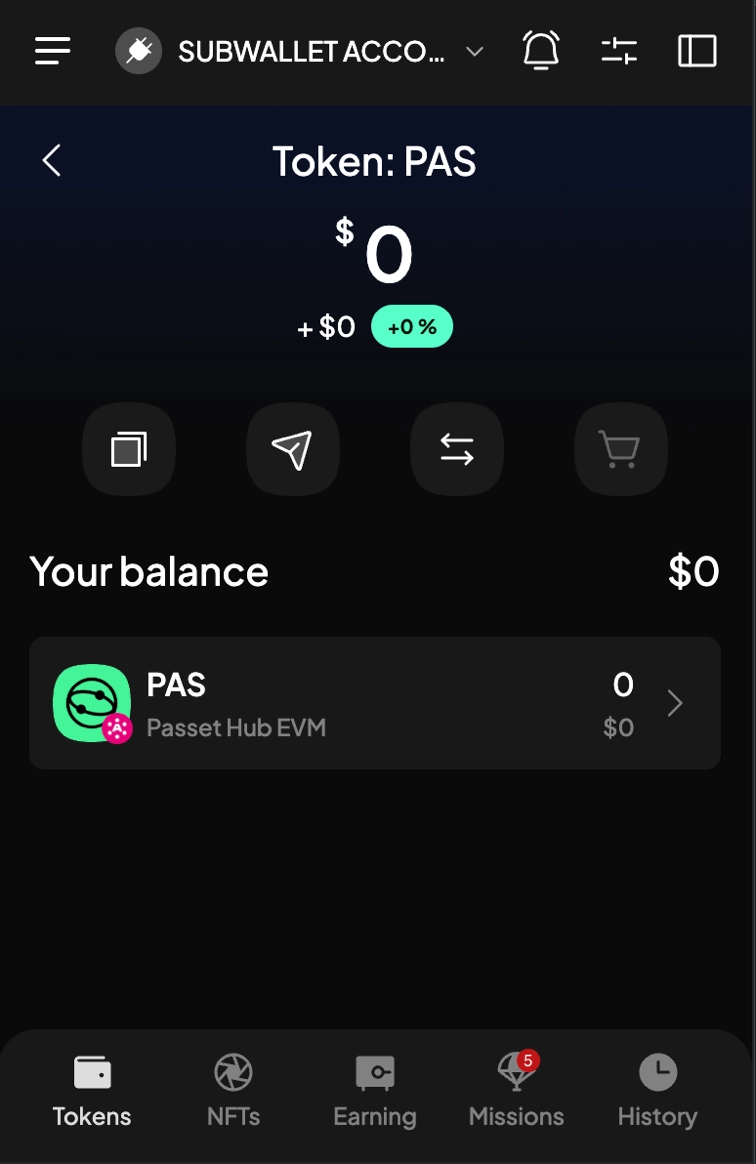
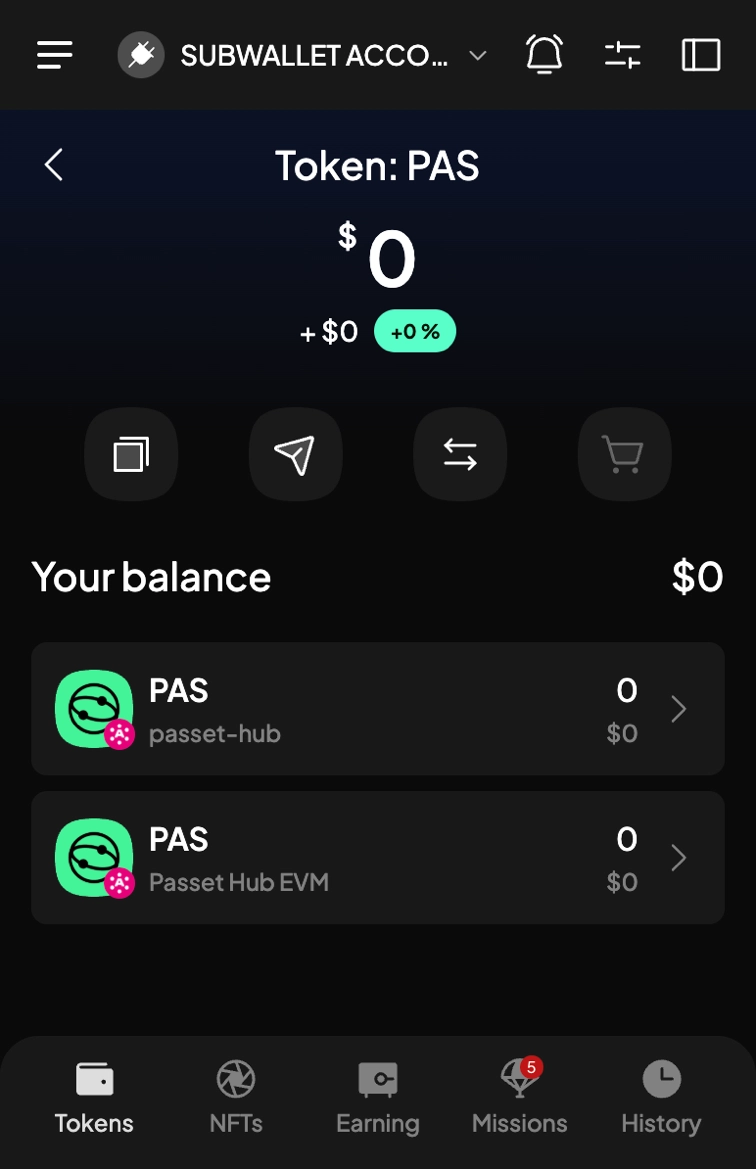
add SubWallet

diff --git a/develop/smart-contracts/wallets.md b/develop/smart-contracts/wallets.md
@@ -29,7 +29,7 @@ For example, to connect to the Polkadot Hub TestNet via MetaMask, you need to fo
 
     ![](/images/develop/smart-contracts/wallets/wallets-2.webp){: .browser-extension}
 
-3. Complete the necessary fields, then click the **Save** button (refer to the [Networks](/develop/smart-contracts/connect-to-polkadot#networks-details) section for copy and paste parameters)
+3. Complete the necessary fields, then click the **Save** button (refer to the [Networks](/develop/smart-contracts/connect-to-polkadot#networks-details){target=\_blank} section for copy and paste parameters)
 
     ![](/images/develop/smart-contracts/wallets/wallets-3.webp){: .browser-extension}
 
@@ -40,16 +40,18 @@ For example, to connect to the Polkadot Hub TestNet via MetaMask, you need to fo
 The steps in the preceding section can be used to connect to any chain by modifying the network specification and endpoint parameters.
 
 ### SubWallet
-[SubWallet](https://www.subwallet.app/){target=\_blank} is a popular non-custodial wallet solution for Polkadot, Substrate and Ethereum ecosystems. It offers seamless integration with Polkadot-based networks while maintaining Ethereum compatibility, making the wallet an ideal choice for users & developers to interact with Polkadot Hub.
+[SubWallet](https://www.subwallet.app/){target=\_blank} is a popular non-custodial wallet solution for Polkadot, Substrate and Ethereum ecosystems. It offers seamless integration with Polkadot-based networks while maintaining Ethereum compatibility, making the wallet an ideal choice for users and developers to interact with Polkadot Hub.
 
-SubWallet now fully supports Polkadot Hub's Smart Contract module. You can easily view and manage your PAS tokens across both Substrate and EVM-compatible networks in one place.
+SubWallet now fully supports the [Polkadot Hub TestNet](/polkadot-protocol/smart-contract-basics/networks/#test-networks){target=\_blank} where developers can deploy and interact with Ethereum-compatible, PolkaVM Solidity smart contracts.
+You can easily view and manage your Paseo native token (PAS) using the Ethereum RPC endpoint (Passet Hub EVM) or the Substrate node RPC endpoint (passet-hub).
 
-??? code "Passet Hub Testnet"
-    You can see support here for Passet Hub's Ethereum-compatible Testnet.
-    
+??? code "Polkadot Hub Testnet"
+    You can see support here for Polkadot Hub's Testnet. Passet Hub EVM is the ETH RPC endpoint and passet-hub is the Substrate endpoint.
+    Note the PAS token which is the native token of the Polkadot Hub TestNet.
+
     <img height="756" alt="" src="/images/develop/smart-contracts/wallets/subwallet-PAS.webp" />
 
-To connect to Polkadot Hub using SubWallet, follow these steps:
+To connect to Polkadot Hub TestNet using SubWallet, follow these steps:
 
 1. Install the [SubWallet browser extension](https://chromewebstore.google.com/detail/subwallet-polkadot-wallet/onhogfjeacnfoofkfgppdlbmlmnplgbn?hl=en){target=\_blank} and set up your wallet by following the on-screen instructions, or refer to our [step-by-step guide](https://docs.subwallet.app/main/extension-user-guide/getting-started/install-subwallet){target=\_blank} for assistance.
 
@@ -73,11 +75,11 @@ To connect to Polkadot Hub using SubWallet, follow these steps:
 
 [Talisman](https://talisman.xyz/){target=\_blank} is a specialized wallet for the Polkadot ecosystem that supports both Substrate and EVM accounts, making it an excellent choice for Polkadot Hub interactions. Talisman offers a more integrated experience for Polkadot-based chains while still providing Ethereum compatibility.
 
-To use Talisman with Polkadot Hub:
+To use Talisman with Polkadot Hub TestNet:
 
 1. Install the [Talisman extension](https://talisman.xyz/download){target=\_blank} and set up your wallet by following the on-screen instructions
 
-2. Once installed, click on the Talisman icon in your browser extensions and click on the **Settings* button:  
+2. Once installed, click on the Talisman icon in your browser extensions and click on the **Settings** button:  
 
     ![](/images/develop/smart-contracts/wallets/wallets-5.webp){: .browser-extension}
 
